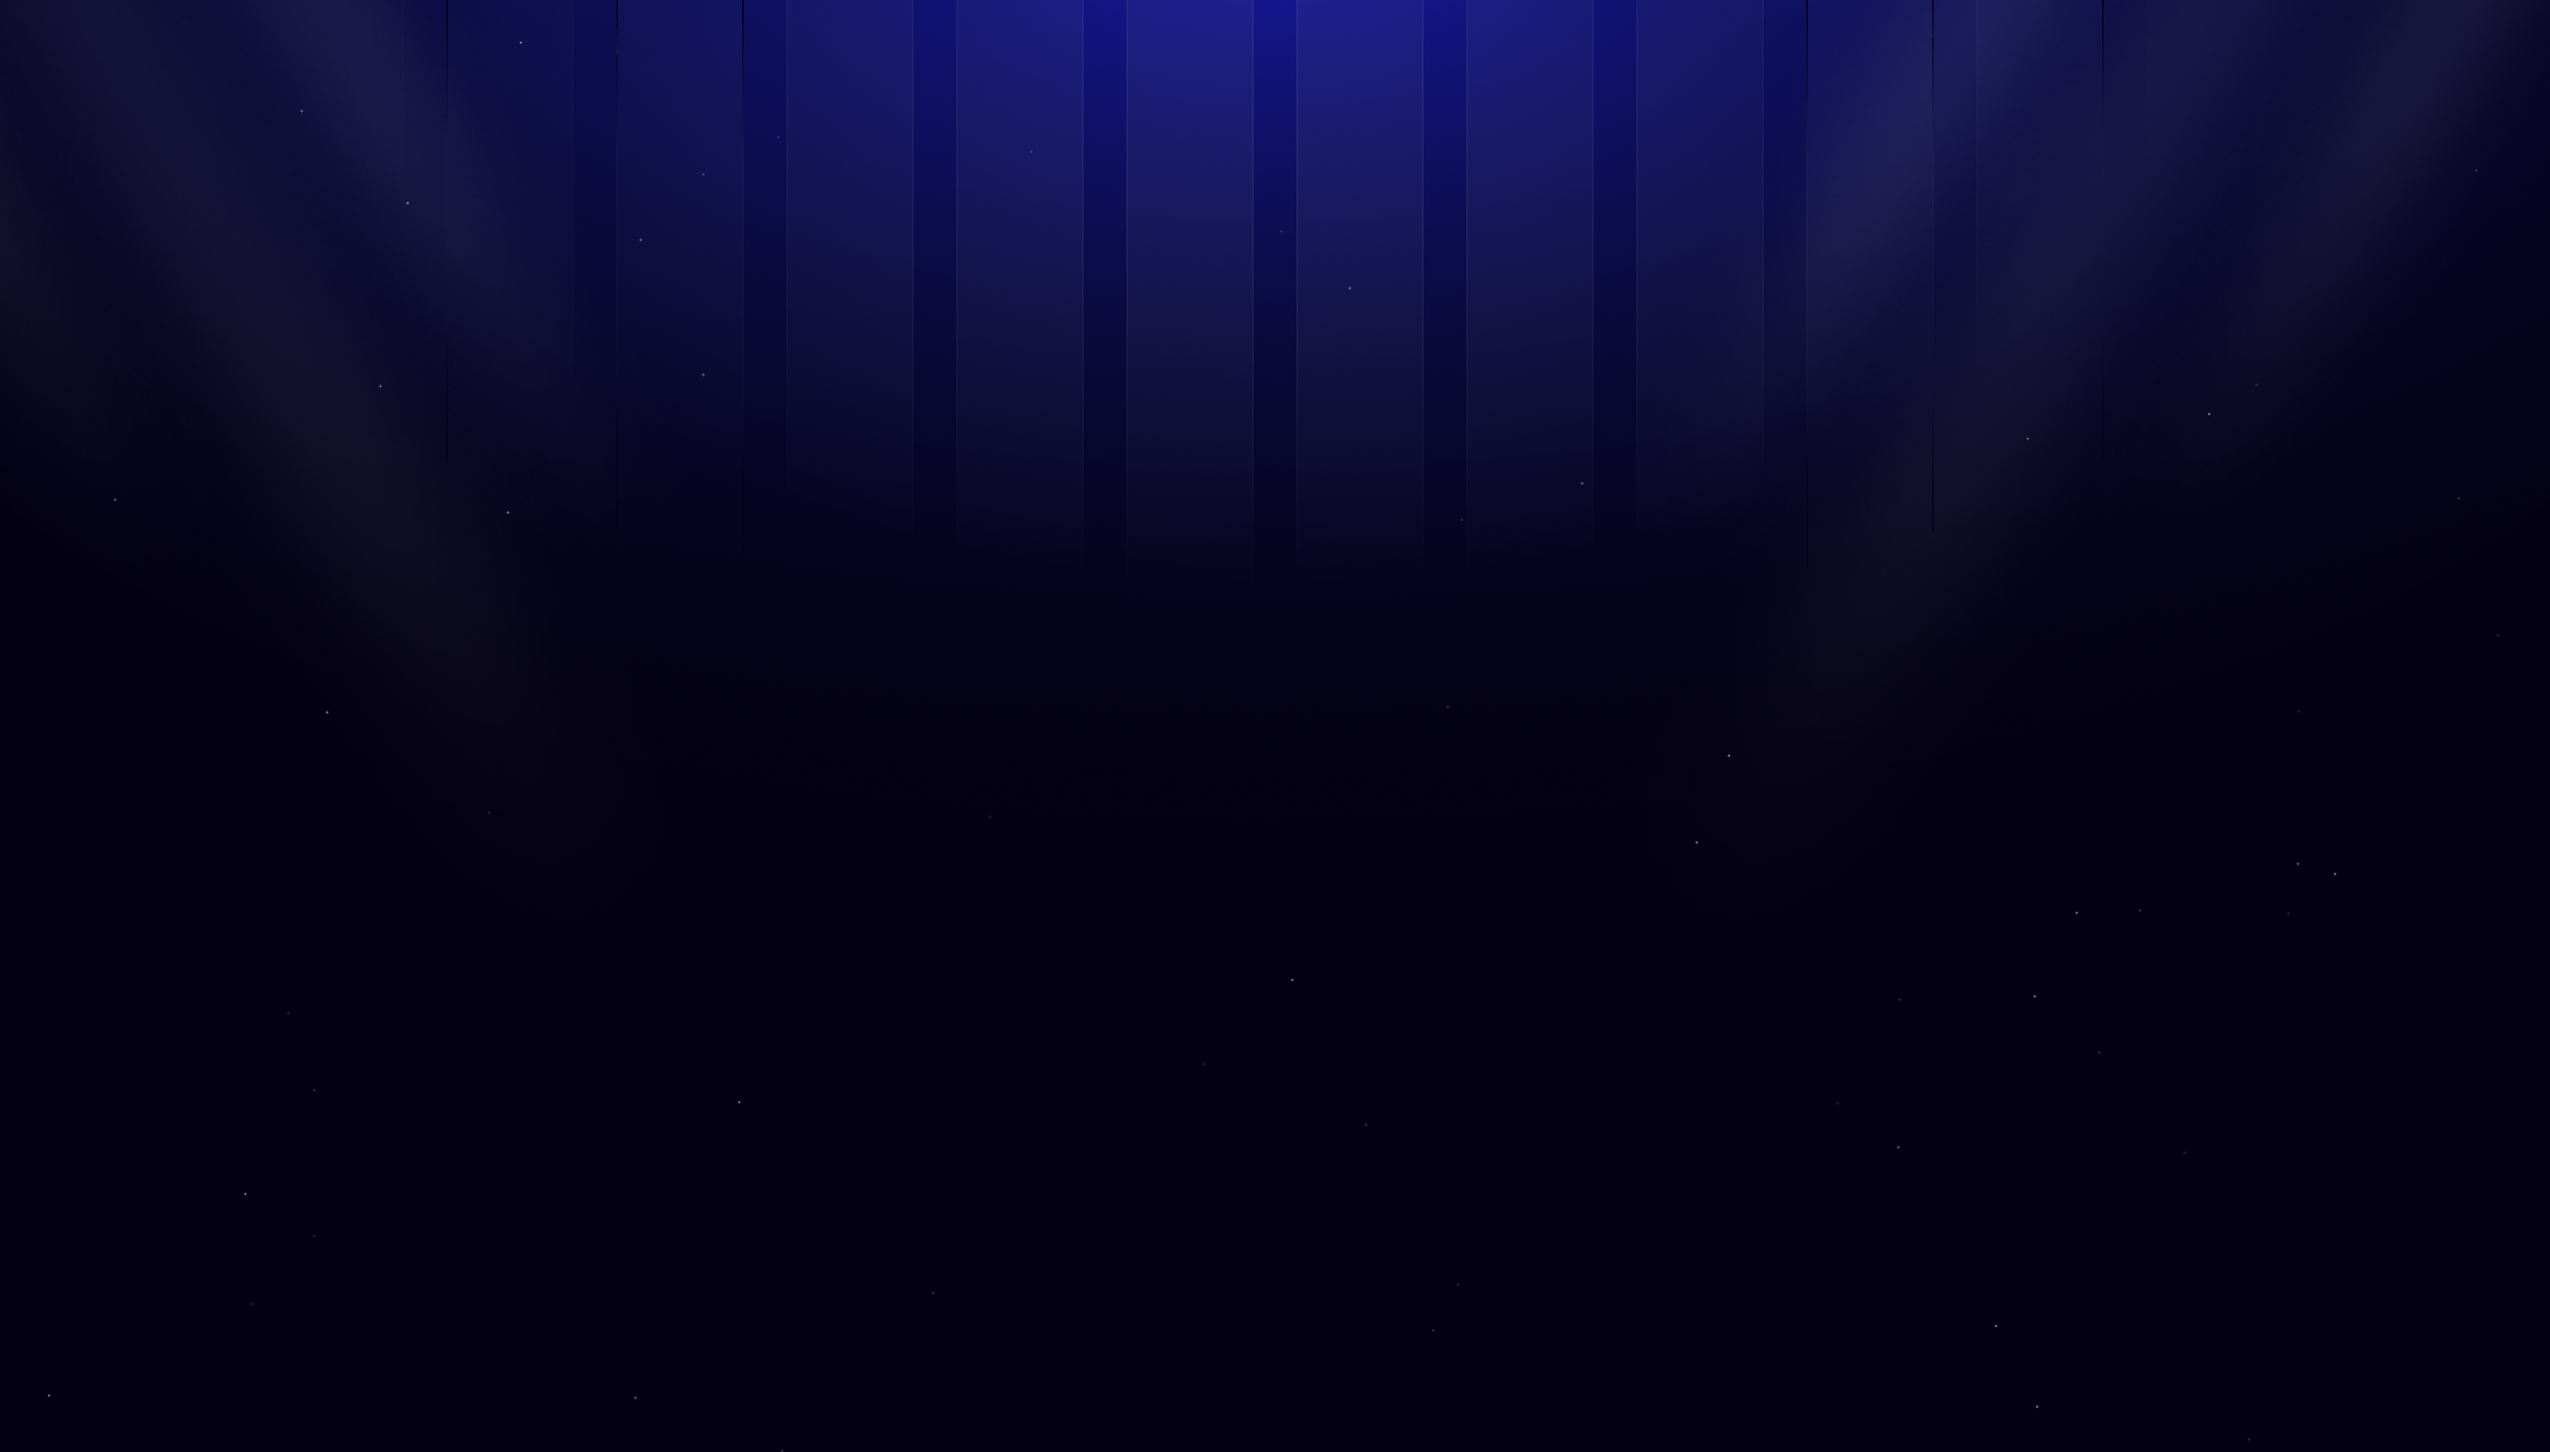
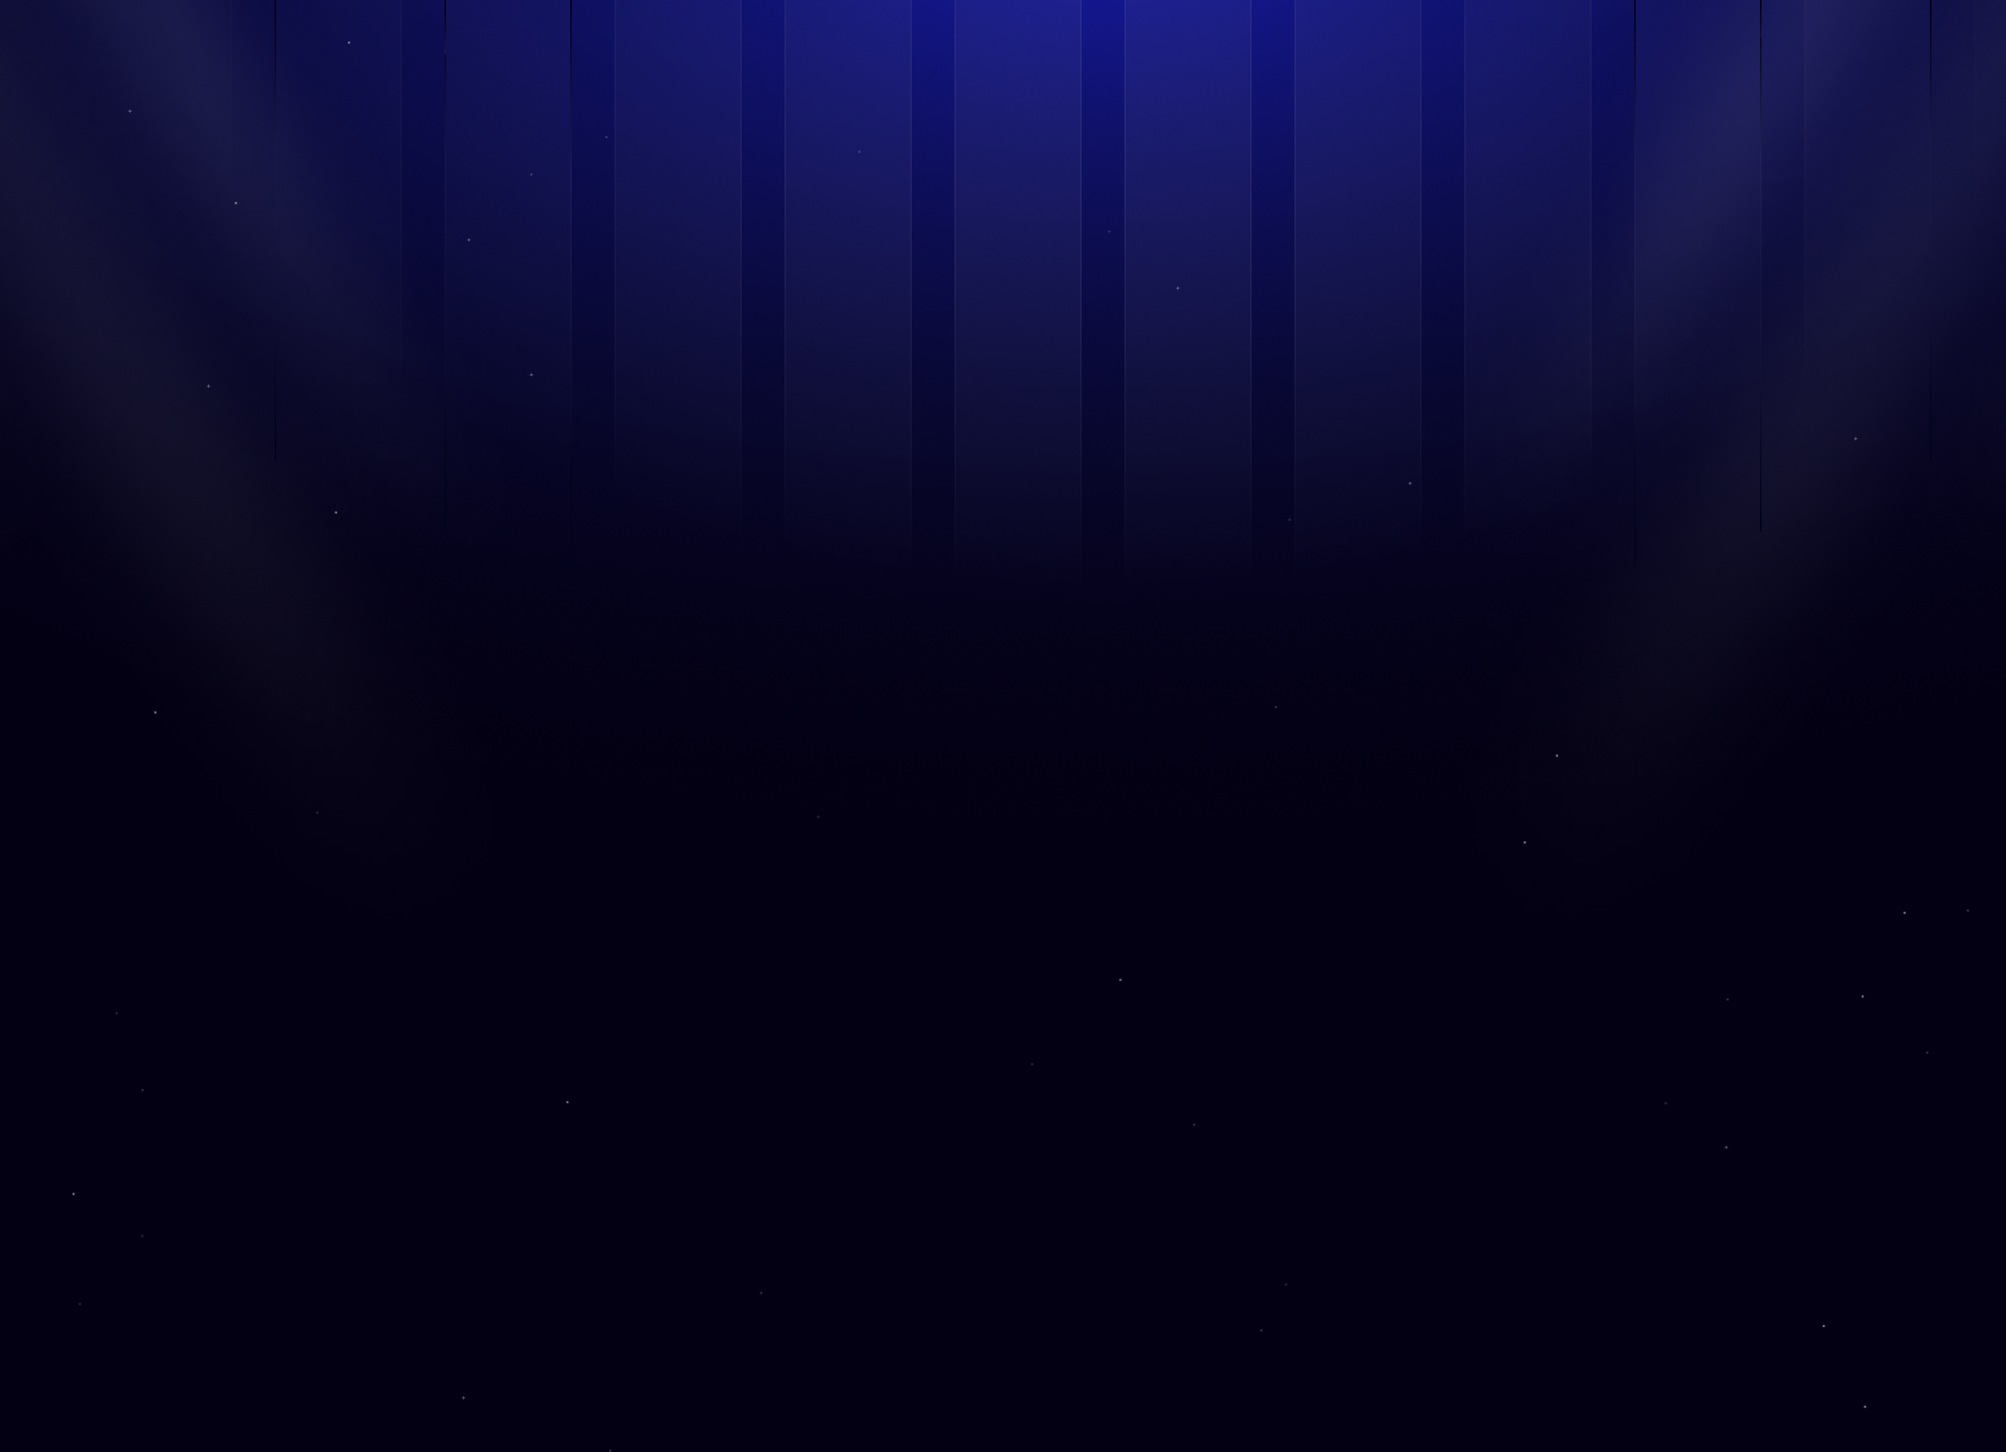
Fix styling issues

Changed region(s): [[0.8341, 0.0, 1.0, 0.1866]]

diff --git a/src/App.jsx b/src/App.jsx
@@ -17,14 +17,17 @@ const API_OPTIONS = {
 };
 
 const App = () => {
+	const [debouncedSearchTerm, setDebouncedSearchTerm] = useState('');
 	const [searchTerm, setSearchTerm] = useState('');
-	const [errorMessage, setErrorMessage] = useState('');
-    const [movieList, setMovieList] = useState([]);
-	const [trendingMovies, setTrendingMovies] = useState([]);    
-	const [isLoading, setIsLoading] = useState(false);
-    const [debouncedSearchTerm, setDebouncedSearchTerm] = useState('');
 
-  // debouncing the search term to prevent making too many API request by waiting for the user to stop typing for 500ms
+	const [movieList, setMovieList] = useState([]);
+	const [isLoading, setIsLoading] = useState(false);
+	const [errorMessage, setErrorMessage] = useState('');
+   
+	// TODO: implement is loading and error message for trending movies as well
+	const [trendingMovies, setTrendingMovies] = useState([]);    
+	
+	
     useDebounce(() => setDebouncedSearchTerm(searchTerm), 500, [searchTerm])
     
 	const fetchMovies = async (query = '') => {
@@ -86,11 +89,11 @@ const App = () => {
 			<div className='pattern' />
 			<div className='wrapper'>
 				<header>
-					<img
+					{/* <img
 						src='./hero.png'
 						alt='Hero banner'
-					/>
-					<h1 className='text-7xl'>
+					/> */}
+					<h1>
 						Find <span className='text-gradient'>Movies</span> You'll Enjoy
 						Without the Hassle
 					</h1>

diff --git a/src/index.css b/src/index.css
@@ -28,7 +28,7 @@
   }
 
   h1 {
-    @apply mx-auto max-w-4xl text-center text-5xl font-bold leading-tight tracking-[-1%] text-white sm:text-[64px] sm:leading-[76px];
+    @apply mx-auto mt-[-0.5em] max-w-3xl text-center text-7xl font-bold leading-tight tracking-[-1%] text-white sm:text-[64px] sm:leading-[76px];
   }
 
   h2 {
@@ -50,7 +50,7 @@
 
 @layer components {
   .pattern {
-    @apply bg-hero-pattern w-screen h-screen bg-center bg-cover absolute z-0;
+    @apply bg-hero-pattern w-[98vw] h-screen bg-center bg-cover absolute z-0;
   }
 
   .wrapper {
